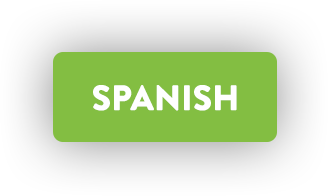
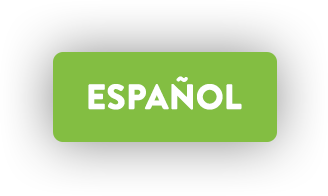
Finished attractor and next button multi-language updates.

Changed region(s): [[0.2439, 0.3673, 0.7622, 0.5816]]

diff --git a/H&R Block Survey/HRBlockSurvey.m b/H&R Block Survey/HRBlockSurvey.m
@@ -36,8 +36,8 @@
                                  nil];
         
         self.spanishQuestions = [NSArray arrayWithObjects:
-                                 @"Cuando tu recibes un tax refundo, typicamente que compre? Por favor selecte todos que applicar.",
-                                 @"Que tipo de cosa \"divertida\" comprare con su tax refundo?",
+                                 @"¿Cómo te gastas típicamente tu reembolso de taxes? Selecciona todas la opciones que apliquen.",
+                                 @"¿Si decidieras comprarte algo \"divertido\" con tu reembolso, ¿qué comprarías?",
                                  nil];
 
         self.surveyQuestions = [NSArray arrayWithObjects:
@@ -68,24 +68,24 @@
                                  nil];
         
         self.spanishOptionsQ0 = [NSArray arrayWithObjects:
-                                 @"ESP: I use my refund to pay off debt (e.g., student loands, credit card debt)",
-                                 @"ESP: I spend my refund on something practical (e.g., utility bills, groceries, home repairs)",
-                                 @"ESP: I splurge on something for myself",
-                                 @"ESP: I splurge on something for my family/friends",
-                                 @"ESP: I put my refund in savings",
-                                 @"ESP: Other",
-                                 @"ESP: I have never received a tax refund",
+                                 @"Pagando deudas (balances de tarjetas de crédito, préstamos\nestudiantiles, etc.)",
+                                 @"En algo práctico (facturas de servicios públicos, comestibles, etc.)",
+                                 @"En algo especial para mí",
+                                 @"En algo especial para mi familia/mis amigos",
+                                 @"Ahorros",
+                                 @"En otra cosa",
+                                 @"Nunca he recibido un reembolso",
                                  nil];
         
         self.spanishOptionsQ1 = [NSArray arrayWithObjects:
-                                 @"ESP: A vacation for me and my family",
-                                 @"ESP: A new electronic device (e.g., television, smartphone, computer, tablet)",
-                                 @"ESP: A new outfit or accessory",
-                                 @"ESP: A surprise gift for a family member or friend",
-                                 @"ESP: A new car",
-                                 @"ESP: Sports or concert tickets",
-                                 @"ESP: Other",
-                                 @"ESP: None",
+                                 @"Unas vacaciones",
+                                 @"Un dispositivo electrónico",
+                                 @"Ropa o accesorios",
+                                 @"Un regalo sorpresa para algún familiar/amigo",
+                                 @"Un auto",
+                                 @"Boletos para un evento deportivo o un concierto",
+                                 @"Otra cosa",
+                                 @"Nada",
                                  nil];
         
         self.spanishOptions = [NSArray arrayWithObjects:

diff --git a/H&R Block Survey/AttractorViewController.m b/H&R Block Survey/AttractorViewController.m
@@ -18,6 +18,11 @@
 @property (weak, nonatomic) IBOutlet UIImageView *chooseLanguageImage;
 @property (weak, nonatomic) IBOutlet UIImageView *logoImage;
 
+@property (strong, nonatomic) NSTimer *timeoutTimer;
+// @property (strong, nonatomic) NSDate *lastTimeoutResetEvent;
+// @property NSTimeInterval timeoutLength;
+
+
 
 @end
 
@@ -39,11 +44,16 @@
     self.backgroundImage.alpha = 1;
     self.logoImage.alpha = 1;
     
+    // [self startTimer];
     
 }
 
 - (void)viewDidLoad {
     [super viewDidLoad];
+    
+    [self.titleImage setImage:[UIImage imageNamed:@"attract_title.png"]];    
+    [self startTimer];
+
     
 }
 
@@ -111,7 +121,64 @@
 - (void)prepareForSegue:(UIStoryboardSegue *)segue sender:(id)sender {
     SurveyViewController *destinationViewController = [segue destinationViewController];
     destinationViewController.inEnglish = self.inEnglish;
+    [self stopTimer];
     
 }
+
+- (void) startTimer {
+    if (self.timeoutTimer == nil) {
+        self.timeoutTimer = [NSTimer scheduledTimerWithTimeInterval:3 target:self selector:@selector(rotateLanguageElements) userInfo:nil repeats:YES];
+        NSLog(@"TIMER STARTED");
+    } else {
+        NSLog(@"DUPLICATE TIMERS!");
+    }
+}
+
+- (void) stopTimer {
+    if (self.timeoutTimer) {
+        [self.timeoutTimer invalidate];
+        self.timeoutTimer = nil;
+    }
+    NSLog(@"TIMER STOPPED");
+}
+
+- (void)rotateLanguageElements {
+    // NSLog(@"rotating language text");
+    
+    if ([self.titleImage.image isEqual:[UIImage imageNamed:@"attract_title.png"]]) {
+        // NSLog(@"title is english, rotating to spanish");
+        
+        [UIView animateWithDuration:.3 animations:^{
+            self.titleImage.alpha = 0;
+        } completion:^(BOOL finished) {
+            [self.titleImage setImage:[UIImage imageNamed:@"attract_title_ES.png"]];
+            
+            [UIView animateWithDuration:.3 animations:^{
+                self.titleImage.alpha = 1;
+            }];
+        }];
+         
+        
+    } else {
+        // NSLog(@"title is spanish, rotating to english");
+        
+        [UIView animateWithDuration:.3 animations:^{
+            self.titleImage.alpha = 0;
+        } completion:^(BOOL finished) {
+            [self.titleImage setImage:[UIImage imageNamed:@"attract_title.png"]];
+            
+            [UIView animateWithDuration:.3 animations:^{
+                self.titleImage.alpha = 1;
+            }];
+        }];
+
+
+    }
+}
+
+- (BOOL)prefersStatusBarHidden {
+    return YES;
+}
+
 
 @end

diff --git a/H&R Block Survey/SurveyViewController.m b/H&R Block Survey/SurveyViewController.m
@@ -37,6 +37,20 @@
     self.surveyButtons = [[NSMutableArray alloc] init];
     self.dataString = [[NSMutableString alloc] initWithString:self.survey.surveyDateTaken];
     [self.dataString appendString:self.survey.UID];
+    
+    NSString *langCode = [[NSString alloc] init];
+    
+    if (self.inEnglish) {
+        langCode = @"EN,";
+        [self.surveyNextButton setBackgroundImage:[UIImage imageNamed:@"survey_next.png"] forState:UIControlStateNormal];
+        self.surveyNextButton.hidden = YES;
+    } else {
+        langCode = @"ES,";
+        [self.surveyNextButton setBackgroundImage:[UIImage imageNamed:@"survey_next_ES.png"] forState:UIControlStateNormal];
+            self.surveyNextButton.hidden = YES;
+    }
+    
+    [self.dataString appendString:langCode];
     self.csvWriter = [[CSVData alloc] init];
         
     [self updateUI];
@@ -46,6 +60,7 @@
 - (void) updateUI {
     [self updateQuestionLabels];
     [self updateQuestionOptions];
+    self.surveyNextButton.hidden = YES;
 }
 
 - (void)updateQuestionLabels {
@@ -298,6 +313,9 @@
     
 }
 
+- (BOOL)prefersStatusBarHidden {
+    return YES;
+}
 
 
 @end

diff --git a/H&R Block Survey/ThankYouViewController.m b/H&R Block Survey/ThankYouViewController.m
@@ -1,0 +1,42 @@
+//
+//  ThankYouViewController.m
+//  H&R Block Survey
+//
+//  Created by Patrick Shea on 1/14/15.
+//  Copyright (c) 2015 MotionKick. All rights reserved.
+//
+
+#import "ThankYouViewController.h"
+
+@interface ThankYouViewController ()
+
+@end
+
+@implementation ThankYouViewController
+
+- (void)viewDidLoad {
+    [super viewDidLoad];
+    // Do any additional setup after loading the view.
+}
+
+- (void)didReceiveMemoryWarning {
+    [super didReceiveMemoryWarning];
+    // Dispose of any resources that can be recreated.
+}
+
+/*
+#pragma mark - Navigation
+
+// In a storyboard-based application, you will often want to do a little preparation before navigation
+- (void)prepareForSegue:(UIStoryboardSegue *)segue sender:(id)sender {
+    // Get the new view controller using [segue destinationViewController].
+    // Pass the selected object to the new view controller.
+}
+*/
+
+- (BOOL)prefersStatusBarHidden {
+    return YES;
+}
+
+
+@end

diff --git a/H&R Block Survey/ThankYouViewController.h b/H&R Block Survey/ThankYouViewController.h
@@ -1,0 +1,13 @@
+//
+//  ThankYouViewController.h
+//  H&R Block Survey
+//
+//  Created by Patrick Shea on 1/14/15.
+//  Copyright (c) 2015 MotionKick. All rights reserved.
+//
+
+#import <UIKit/UIKit.h>
+
+@interface ThankYouViewController : UIViewController
+
+@end
